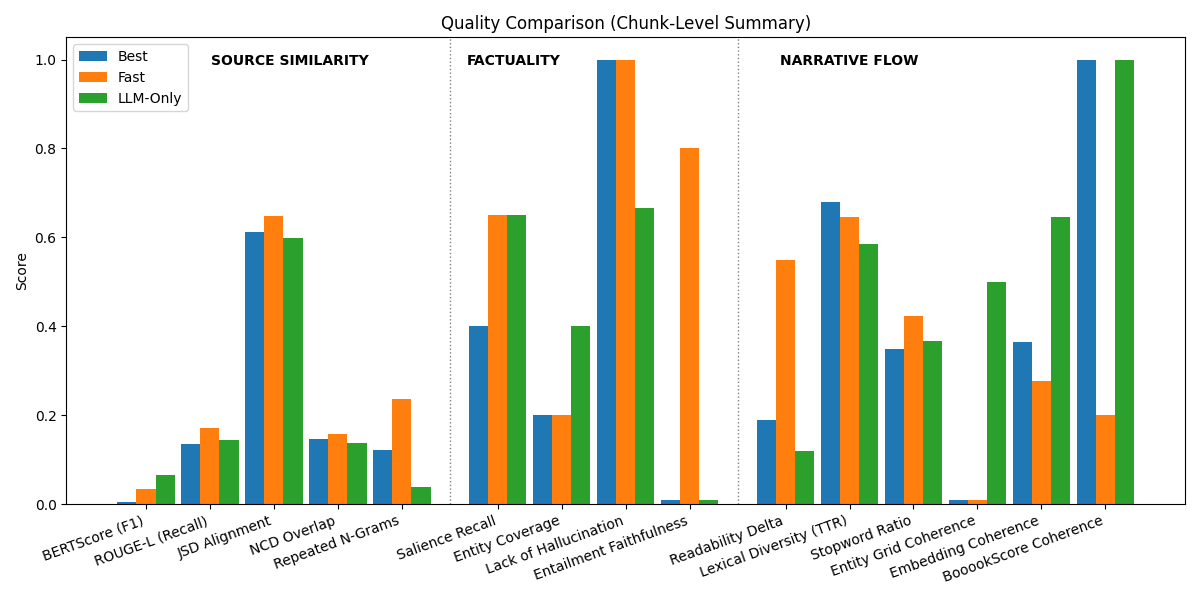
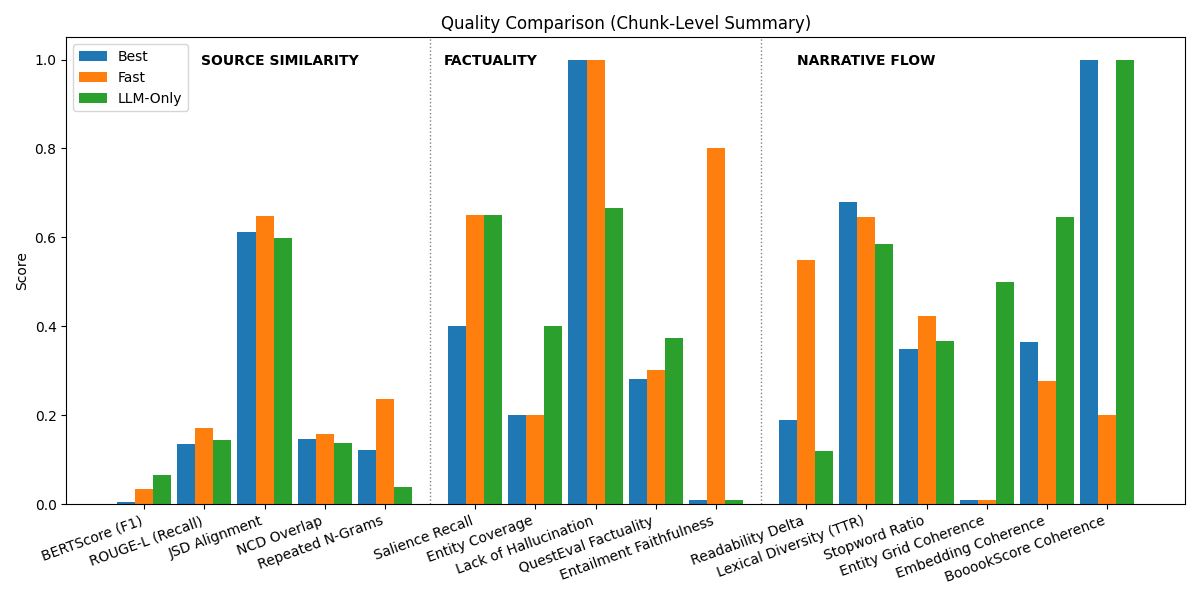
fix chart syntax

Changed region(s): [[0.0308, 0.09, 0.925, 0.96], [0.6475, 0.09, 0.8017, 0.12], [0.1542, 0.09, 0.3083, 0.12]]

diff --git a/src/charts.py b/src/charts.py
@@ -216,7 +216,7 @@ class Plot:
 
     METRIC_GROUPS = {
         "SOURCE SIMILARITY": ["bertscore", "rougeL_recall", "jsd_stats", "ncd_overlap", "novel_ngrams"],
-        "FACTUALITY": ["salience_recall", "entity_coverage", "entity_hallucination", "questeval"  "ncd_overlap", "nli_faithfulness"],
+        "FACTUALITY": ["salience_recall", "entity_coverage", "entity_hallucination", "questeval", "nli_faithfulness"],
         "NARRATIVE FLOW": ["readability_delta", "lexical_diversity", "stopword_ratio", "entity_grid_coherence", "sentence_coherence", "bookscore"],
     }
 
@@ -295,7 +295,7 @@ class Plot:
         plt.legend()
 
         # Manually define the x positions for the group separators
-        group_lines_x = [4.75, 9.25]  # example positions between groups
+        group_lines_x = [4.75, 10.25]  # example positions between groups
         group_label_y = max(merged[labels].max().max(), 1) - 0.02  # vertical position for headers
 
         # Draw dotted lines
@@ -303,7 +303,7 @@ class Plot:
             plt.axvline(x=x, color="gray", linestyle="dotted", linewidth=1)
 
         # Draw header labels
-        for x, label in zip([2.25, 5.75, 11], Plot.METRIC_GROUPS.keys()):  # adjust x for label centers
+        for x, label in zip([2.25, 5.75, 12], Plot.METRIC_GROUPS.keys()):  # adjust x for label centers
             plt.text(x, group_label_y, label, fontsize=10, fontweight="bold",
                      ha="center", va="bottom")
 
